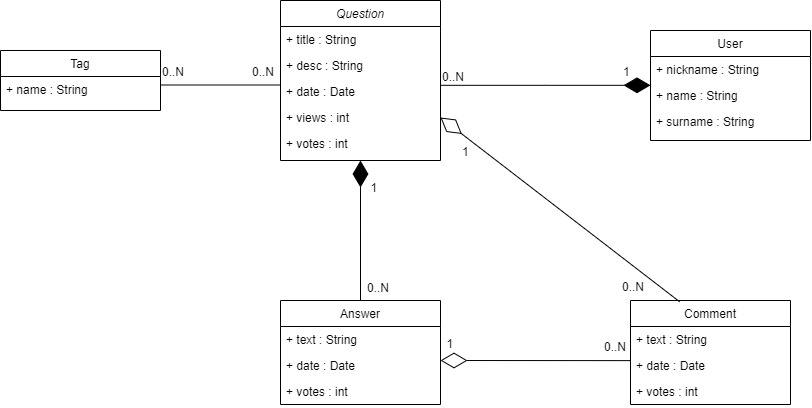
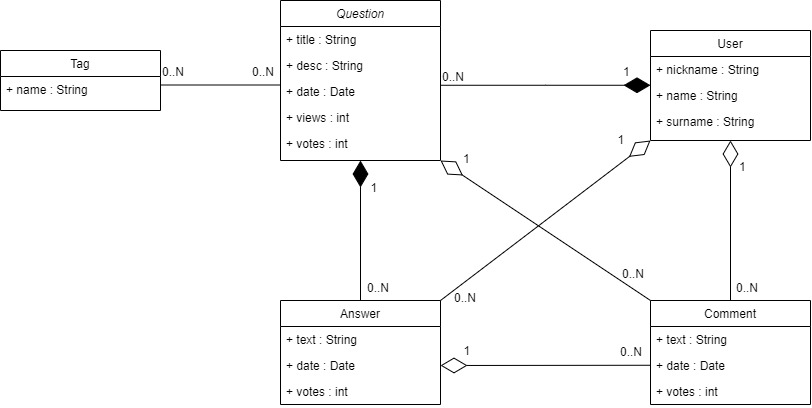
classdiagram update + model classes update + superclass implementation for comment with SINGLE_TABLE constraint + Test class cleanup

diff --git a/src/test/java/com/Nadir/cs393project/Homework2ApplicationTests.java b/src/test/java/com/Nadir/cs393project/Homework2ApplicationTests.java
@@ -18,88 +18,5 @@ import static org.springframework.test.util.AssertionErrors.*;
 @SpringBootTest
 @TestMethodOrder(MethodOrderer.OrderAnnotation.class)
 class Homework2ApplicationTests {
-	@Autowired
-	QuestionService addressService;
-	@Autowired
-    AnswerService customerService;
-	@Autowired
-	CommentService orderService;
-	@Autowired
-	TagService productService;
-	@Autowired
-	UserService shopService;
-
-	Answer createShop(String name, String addr){
-		Answer shop = new Answer();
-		shop.setName(name);
-		shop.setAddress(addr);
-		return shop;
-	}
-	Question createAddress(String text, String city){
-		Question address = new Question();
-		address.setText(text);
-		address.setCity(city);
-		return address;
-	}
-	Tag createCustomer(String firstname, String lastname){
-		Tag customer = new Tag();
-		customer.setFirstName(firstname);
-		customer.setLastName(lastname);
-		return customer;
-	}
-	Comment createProduct(String name, double price){
-		Comment product = new Comment();
-		product.setName(name);
-		product.setPrice(price);
-		return product;
-	}
-	User createOrder(int amount){
-		User order = new User();
-		order.setAmount(amount);
-		order.setDate(new Date(2021, Calendar.SEPTEMBER,25));
-		return order;
-	}
-	/*@Test
-	void Testtemplate() {
-		Shop shop1 = createShop("Hepsiburada", "İstanbul");
-		Shop shop2 = createShop("gittigidiyor", "İstanbul");
-		Address address1 = createAddress("Kadıköy", "İstanbul");
-		Address address2 = createAddress("Nişantaşı", "İstanbul");
-		Customer customer1 = createCustomer("Nadir", "Yüceer");
-		Customer customer2 = createCustomer("Mahmut", "Keser");
-		Product product1 = createProduct("Ülker çikolatalı gofret", 1.50);
-		Product product2 = createProduct("Pringles cips", 8.50);
-		Order order1 = createOrder(500);
-		Order order2 = createOrder(100);
-	}*/
-
-	@Test
-	void ShopSaveTest(){
-		Answer shop1 = createShop("Hepsiburada", "İstanbul");
-		assertTrue("Shopsave",shopService.save(shop1));
-		int shopid = shop1.getId();
-		Tag customer1 = createCustomer("Nadir", "Yüceer");
-		Question address1 = createAddress("Çekmeköy", "İstanbul");
-		customer1.setAddress(address1);
-		customer1.setBank(shopService.getShopById(shopid));
-		assertTrue("Customersave",customerService.save(customer1));
-		Comment product1 = createProduct("eti gofret", 1.50);
-		product1.setShop(shop1);
-		assertTrue("P1save",productService.save(product1));
-		Comment product2 = createProduct("Playstation 5", 5249.99);
-		product2.setShop(shop1);
-		assertTrue("p2save",productService.save(product2));
-		Comment product3 = createProduct("Xbox 360", 4599.99);
-		product3.setShop(shop1);
-		assertTrue("p3save",productService.save(product3));
-		Answer shop2 = createShop("gittigidiyor", "İstanbul");
-		assertTrue("Shop2save",shopService.save(shop2));
-		Comment product4 = createProduct("Playstation 4", 3599.99);
-		product4.setShop(shop2);
-		assertTrue("p4save",productService.save(product4));
-		Comment product5 = createProduct("Xbox 360", 4499.99);
-		product5.setShop(shop2);
-		assertTrue("p5save",productService.save(product5));
-	}
 
 }

diff --git a/src/main/java/com/Nadir/cs393project/model/Answer.java b/src/main/java/com/Nadir/cs393project/model/Answer.java
@@ -4,6 +4,7 @@ import com.fasterxml.jackson.annotation.JsonInclude;
 
 import javax.persistence.*;
 import java.util.Date;
+import java.util.List;
 
 @Entity
 @JsonInclude(JsonInclude.Include.NON_EMPTY)
@@ -11,11 +12,15 @@ public class Answer {
     @Id
     @GeneratedValue(strategy = GenerationType.AUTO)
     private int id;
-    private String text;
-    private Date date;
+    private String txt;
+    private Date publishdate;
     private int votes;
     @ManyToOne
-    private Comment comment;
+    private User user;
+    @ManyToOne
+    private Question question;
+    @OneToMany(mappedBy = "answer")
+    private List<CommentforAnswer> comments;
 
     public int getId() {
         return id;
@@ -23,8 +28,17 @@ public class Answer {
     public void setId(int id) {
         this.id = id;
     }
-    public void setText(String text) {
-        this.text = text;
+    public String getTxt() {
+        return txt;
+    }
+    public void setTxt(String txt) {
+        this.txt = txt;
+    }
+    public Date getPublishdate() {
+        return publishdate;
+    }
+    public void setPublishdate(Date publishdate) {
+        this.publishdate = publishdate;
     }
     public int getVotes() {
         return votes;
@@ -32,16 +46,22 @@ public class Answer {
     public void setVotes(int votes) {
         this.votes = votes;
     }
-    public Date getDate() {
-        return date;
+    public User getUser() {
+        return user;
     }
-    public void setDate(Date date) {
-        this.date = date;
+    public void setUser(User user) {
+        this.user = user;
     }
-    public Comment getComment() {
-        return comment;
+    public Question getQuestion() {
+        return question;
     }
-    public void setComment(Comment comment) {
-        this.comment = comment;
+    public void setQuestion(Question question) {
+        this.question = question;
+    }
+    public List<CommentforAnswer> getComments() {
+        return comments;
+    }
+    public void setComments(List<CommentforAnswer> comments) {
+        this.comments = comments;
     }
 }

diff --git a/src/main/java/com/Nadir/cs393project/model/Comment.java b/src/main/java/com/Nadir/cs393project/model/Comment.java
@@ -7,19 +7,20 @@ import java.util.ArrayList;
 import java.util.Date;
 import java.util.List;
 
+@Inheritance(strategy = InheritanceType.SINGLE_TABLE)
 @Entity
+@Table(name = "Comment")
+@DiscriminatorColumn(name = "CM_TYPE", length = 5)
 @JsonInclude(JsonInclude.Include.NON_EMPTY)
-public class Comment {
+public abstract class Comment {
     @Id
     @GeneratedValue(strategy = GenerationType.AUTO)
     private int id;
-    private String text;
-    private Date date;
+    private String txt;
+    private Date publishdate;
     private int votes;
-    @OneToMany(mappedBy = "comment")
-    private List<Answer> answers;
     @ManyToOne
-    private Question question;
+    private User user;
 
     public Comment(){}
 
@@ -29,11 +30,11 @@ public class Comment {
     public void setId(int id) {
         this.id = id;
     }
-    public String getText() {
-        return text;
+    public String getTxt() {
+        return txt;
     }
-    public void setText(String text) {
-        this.text = text;
+    public void setTxt(String txt) {
+        this.txt = txt;
     }
     public int getVotes() {
         return votes;
@@ -41,22 +42,17 @@ public class Comment {
     public void setVotes(int votes) {
         this.votes = votes;
     }
-    public Date getDate() {
-        return date;
+    public Date getPublishdate() {
+        return publishdate;
     }
-    public void setDate(Date date) {
-        this.date = date;
+    public void setPublishdate(Date publishdate) {
+        this.publishdate = publishdate;
     }
-    public List<Answer> getAnswers() {
-        return answers;
+
+    public User getUser() {
+        return user;
     }
-    public void setAnswers(List<Answer> answers) {
-        this.answers = answers;
-    }
-    public Question getQuestion() {
-        return question;
-    }
-    public void setQuestion(Question question) {
-        this.question = question;
+    public void setUser(User user) {
+        this.user = user;
     }
 }

diff --git a/src/main/java/com/Nadir/cs393project/model/Question.java b/src/main/java/com/Nadir/cs393project/model/Question.java
@@ -16,7 +16,9 @@ public class Question {
     private int views;
     private int votes;
     @OneToMany(mappedBy = "question")
-    private List<Comment> comments;
+    private List<CommentforQuestion> comments;
+    @OneToMany(mappedBy = "question")
+    private List<Answer> answers;
     @ManyToOne
     private User user;
     @ManyToMany
@@ -67,11 +69,17 @@ public class Question {
     public void setVotes(int votes) {
         this.votes = votes;
     }
-    public List<Comment> getComments() {
+    public List<CommentforQuestion> getComments() {
         return comments;
     }
-    public void setComments(List<Comment> comments) {
+    public void setComments(List<CommentforQuestion> comments) {
         this.comments = comments;
+    }
+    public List<Answer> getAnswers() {
+        return answers;
+    }
+    public void setAnswers(List<Answer> answers) {
+        this.answers = answers;
     }
     public User getUser() {
         return user;

diff --git a/src/main/java/com/Nadir/cs393project/model/User.java b/src/main/java/com/Nadir/cs393project/model/User.java
@@ -15,6 +15,10 @@ public class User {
     private String lastName;
     @OneToMany(mappedBy = "user")
     private List<Question> questions;
+    @OneToMany(mappedBy = "user")
+    private List<Comment> comments;
+    @OneToMany(mappedBy = "user")
+    private List<Answer> answers;
 
     public User(){
 
@@ -49,5 +53,17 @@ public class User {
     }
     public void setQuestions(List<Question> questions) {
         this.questions = questions;
+    }
+    public List<Answer> getAnswers() {
+        return answers;
+    }
+    public void setAnswers(List<Answer> answers) {
+        this.answers = answers;
+    }
+    public List<Comment> getComments() {
+        return comments;
+    }
+    public void setComments(List<Comment> comments) {
+        this.comments = comments;
     }
 }

diff --git a/src/main/java/com/Nadir/cs393project/model/CommentforAnswer.java b/src/main/java/com/Nadir/cs393project/model/CommentforAnswer.java
@@ -1,0 +1,20 @@
+package com.Nadir.cs393project.model;
+
+import javax.persistence.DiscriminatorColumn;
+import javax.persistence.DiscriminatorValue;
+import javax.persistence.Entity;
+import javax.persistence.ManyToOne;
+
+@Entity
+@DiscriminatorValue(value = "CFA")
+public class CommentforAnswer extends Comment{
+    @ManyToOne
+    private Answer answer;
+
+    public Answer getAnswer() {
+        return answer;
+    }
+    public void setAnswer(Answer answer) {
+        this.answer = answer;
+    }
+}

diff --git a/src/main/java/com/Nadir/cs393project/model/CommentforQuestion.java b/src/main/java/com/Nadir/cs393project/model/CommentforQuestion.java
@@ -1,0 +1,20 @@
+package com.Nadir.cs393project.model;
+
+import javax.persistence.DiscriminatorValue;
+import javax.persistence.Entity;
+import javax.persistence.ManyToOne;
+
+@Entity
+@DiscriminatorValue(value = "CFQ")
+public class CommentforQuestion extends Comment{
+    @ManyToOne
+    private Question question;
+
+    public Question getQuestion() {
+        return question;
+    }
+
+    public void setQuestion(Question question) {
+        this.question = question;
+    }
+}

diff --git a/src/main/java/com/Nadir/cs393project/dto/QuestionDTO.java b/src/main/java/com/Nadir/cs393project/dto/QuestionDTO.java
@@ -1,0 +1,13 @@
+package com.Nadir.cs393project.dto;
+
+import java.util.Date;
+
+public class QuestionDTO {
+    private String title;
+    private String descript;
+    private String[] tags;
+    private Date publishdate;
+    private String askedby;
+    private int answercount;
+    private int votecount;
+}

diff --git a/src/main/java/com/Nadir/cs393project/Mapper/QuestionMapper.java b/src/main/java/com/Nadir/cs393project/Mapper/QuestionMapper.java
@@ -1,0 +1,11 @@
+package com.Nadir.cs393project.Mapper;
+
+import org.mapstruct.Mapper;
+import org.mapstruct.Mapping;
+import org.mapstruct.factory.Mappers;
+
+@Mapper
+public interface QuestionMapper {
+    QuestionMapper INSTANCE = Mappers.getMapper( QuestionMapper.class );
+    //TODO add mapper
+}
